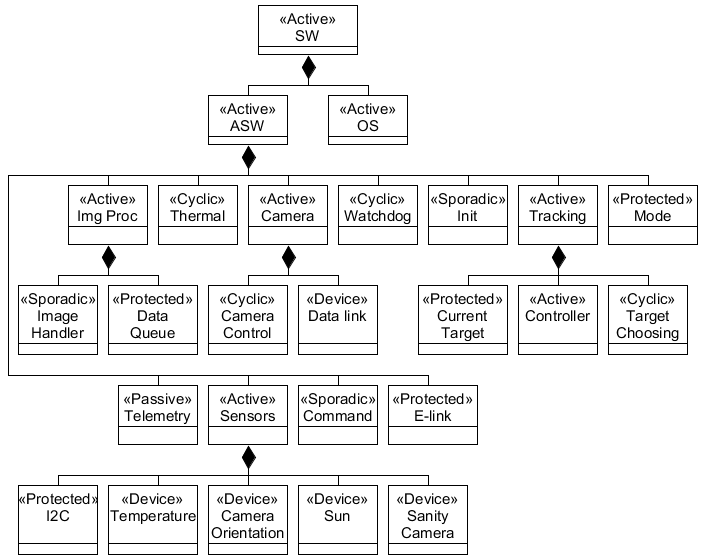
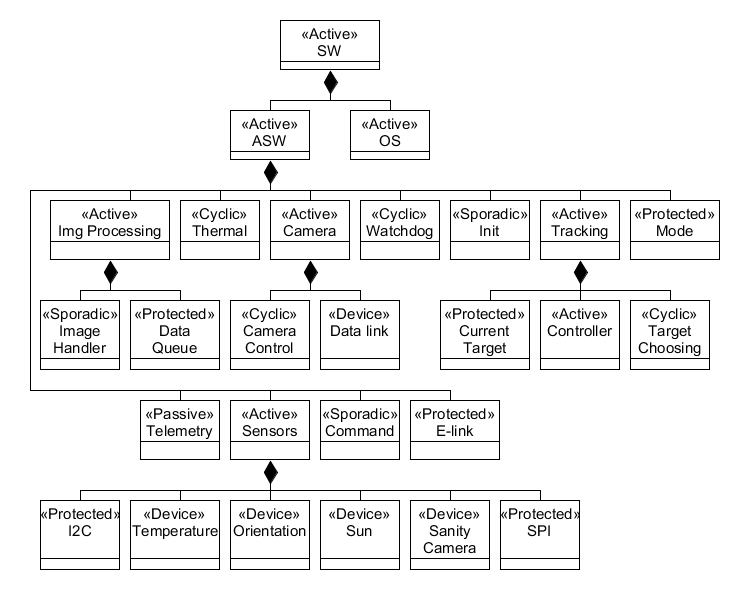
updated 4.8 software design

Changed region(s): [[0.0, 0.0, 1.0, 0.9714]]

diff --git a/4-experiment-design/4.8-software-design.tex b/4-experiment-design/4.8-software-design.tex
@@ -14,7 +14,7 @@ The purpose of the on-board software consists of:
 
 
 
-\subsubsection{Design} \label{sec:4.8.2}
+\subsubsection{Design}
 
 \paragraph{a)} Process Overview\\
 
@@ -25,7 +25,7 @@ The purpose of the on-board software consists of:
 	\label{fig:software-process-overview}
 \end{figure}
 
-Figure \ref{fig:software-process-overview} shows how all externally connected components relates to the on board computer.
+All external components connected to the on board computer and their interface are displayed in figure \ref{fig:software-process-overview}. 
 
 \paragraph{b)} General and safety related concepts\\
 
@@ -33,15 +33,17 @@ To ensure that the software is not erroneous rigorous testing will be done durin
 
 \paragraph{c)} Interfaces\\
 
+If connection to ground is available, images compressed with a lossless compression will be sent down over the E-link over the course of the experiment. If the storage were to fail on touchdown for any reason, this would mean that not all data is lost.
+
+
 \input{4-experiment-design/tables/software-interfaces.tex}
+
 
 \paragraph{d)} Data acquisition and storage\\
 
-The main bulk of data handled is the images taken by the camera. Housekeeping data such as positioning, camera direction, time, etc will also be stored along with the images. This data will be stored on board without compression and sent to ground using a lossless compression.
+The main bulk of data handled is the images taken by the camera. Housekeeping data such as positioning, camera direction, time, etc will also be stored along with the images.
 
 %need amount of data
-
-%something about cutting out blue & green data ?
 
 \paragraph{e)} Process Flow\\
 
@@ -66,7 +68,7 @@ At the end of the floating phase the camera shall be oriented in a landing posit
     \label{fig:software-activity-diagram}
 \end{figure}
 
-
+\newpage
 \paragraph{f)} Modularisation and pseudo code\\
 
 \begin{figure}[H]
@@ -79,7 +81,7 @@ At the end of the floating phase the camera shall be oriented in a landing posit
 Figure \ref{fig:software-composition-tree} shows how the complete software is modularised. Each component is described below.
 
 \begin{itemize}
-	\item Img Proc: Image processing, parent
+	\item Img Processing: Image processing, parent
 		\begin{itemize}
 			\item Image Handler: Module processing and storing images taken by camera.
 			\item Data Queue: Buffer to hold camera data until Handler is ready
@@ -101,16 +103,17 @@ Figure \ref{fig:software-composition-tree} shows how the complete software is mo
 	\item Telemetry: Module responsible for sending telemetry to ground.
 	\item Sensors: parent
 		\begin{itemize}
-			\item I2C: Module responsible for communications over I$^2$C bus.
+			\item I2C: Module responsible for communications over the I$^2$C bus.
 			\item Temperature: Thermal sensors.
 			\item Camera Orientation: Module keeping track of camera orientation and location.
 			\item Sun: Module keeping track of position of the sun.
 			\item Sanity Camera: Connection to the small sanity camera.
+			\item SPI: Module responsible for communications over the SPI bus.
 		\end{itemize}
 		
 \end{itemize}
 
-\subsubsection{Implementation}\label{sec:4.8.3}
+\subsubsection{Implementation}
 
 The code for the on-board software shall be implemented in C. An operating system will be used to enable the modularisation required.
 

diff --git a/4-experiment-design/tables/software-interfaces.tex b/4-experiment-design/tables/software-interfaces.tex
@@ -3,14 +3,23 @@
 	\begin{tabular}{l|l}
 		\textbf{Component}                                                          		& \textbf{Interface} \\ \hline
 		Ground Station                                                              		& E-link             \\
-		External Data Storage                                                       		& TBD                \\
 		Controller Actuators                                                        		& Digital PWM        \\
-		NIR Camera                                                                  		& USB                \\
-		Sanity Camera                                                               		& CSI                \\
+		External Data Storage
+		& USB            \\
+		NIR Camera
+		& USB                \\
+		Sanity Camera
+		& USB                \\
 		Watchdog
 		& Digital Interrupts \\
-		\begin{tabular}[c]{@{}l@{}}Location and \\ Orientation Sensors	\end{tabular} & I2C or SPI\\
-		\hline
+		Gondola GPS
+		& SPI                \\
+		Compass
+		& SPI                \\
+		Gondola Gyroscope
+		& I2C                \\
+		Camera Gyroscope   
+		& I2C                \\
 	\end{tabular}
 	\caption{Table showing the interface that each external component is connected with. This is also visually represented in figure \ref{fig:software-process-overview}.}
 	\label{tab:software-interfaces}
